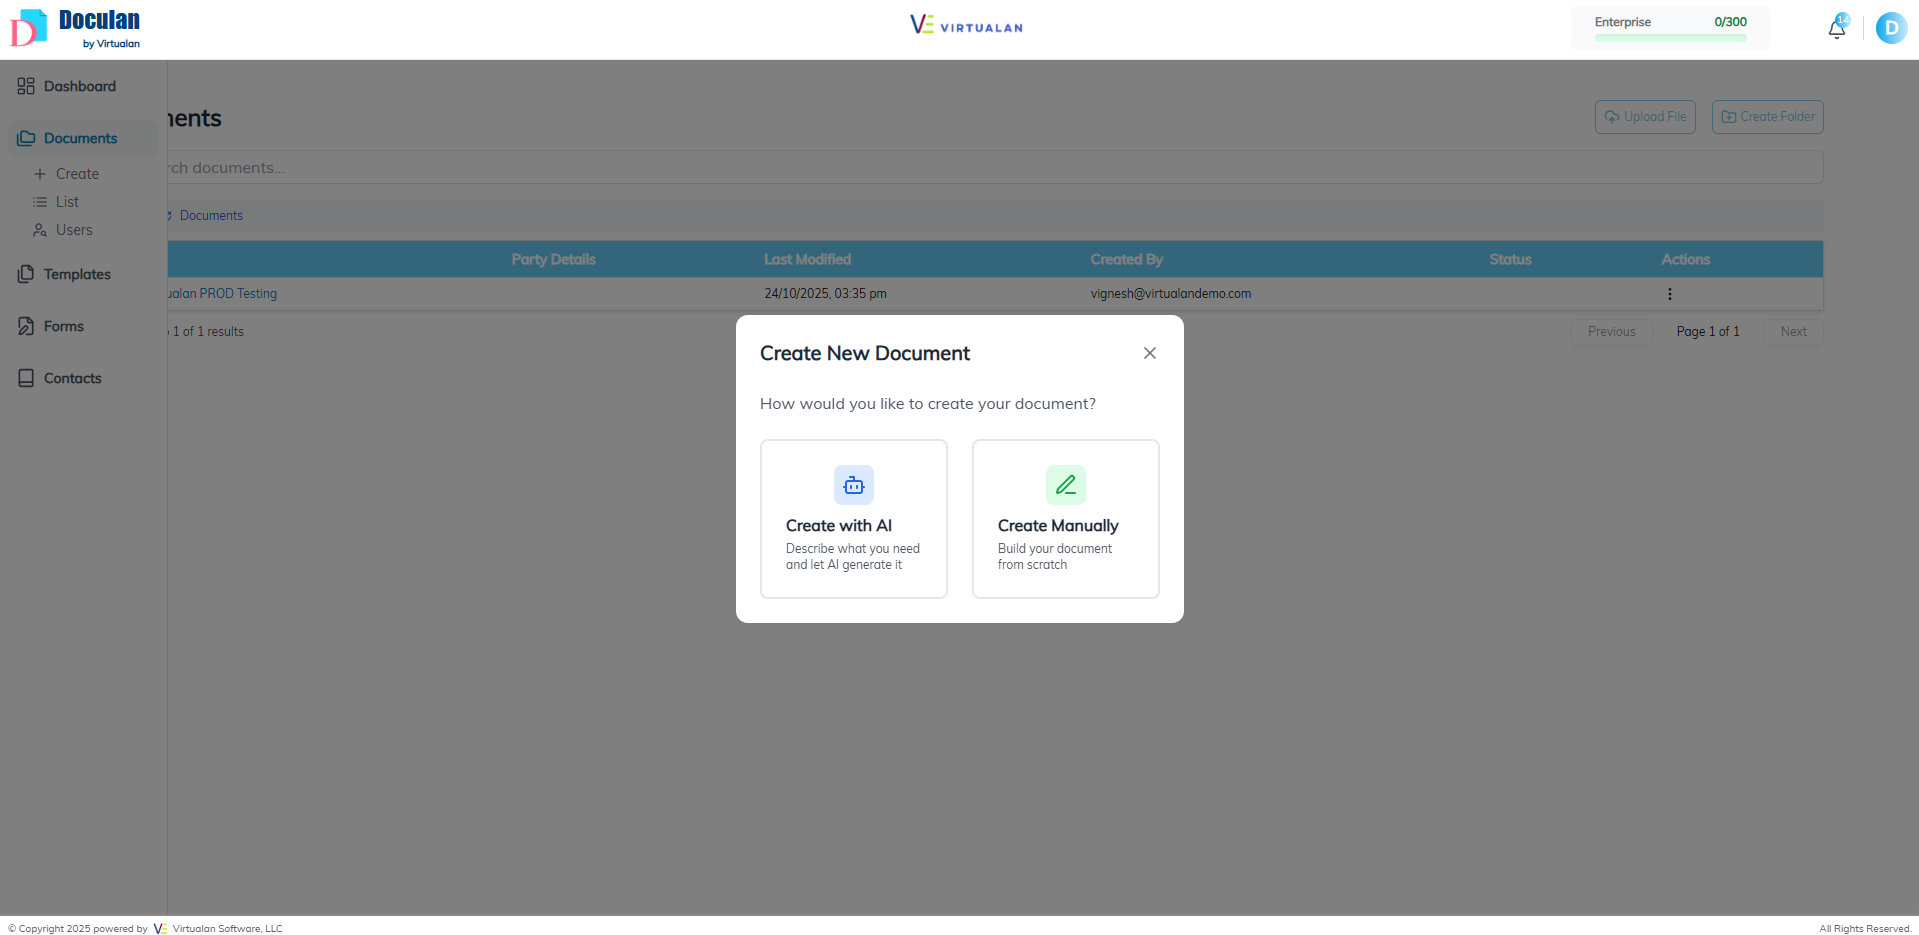
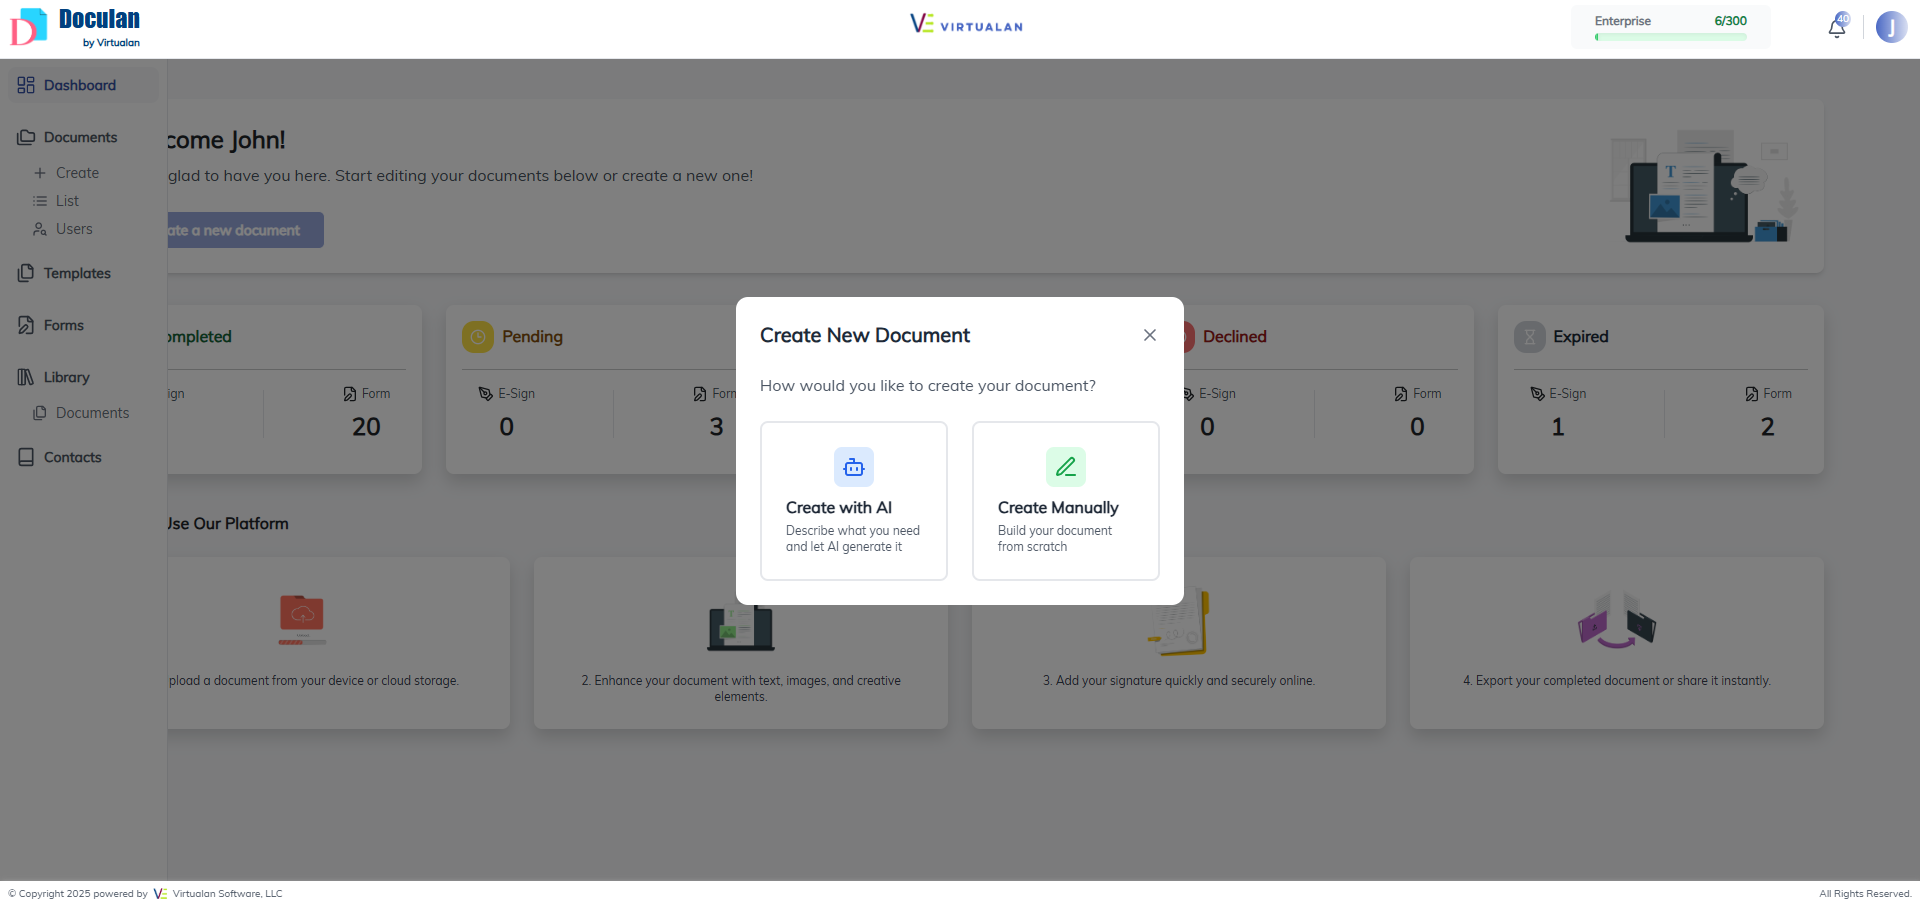
modifed-newlayer

diff --git a/docs/Forms/Form_Create.md b/docs/Forms/Form_Create.md
@@ -3,13 +3,18 @@
 This guide explains the complete process of **creating a form, sending it to users, capturing their submissions, and reviewing the collected data**. 
 Follow the step-by-step instructions to manage your form workflow efficiently.
 
+---
+
 ##   **Step 1: Navigate to Create the Form**
 
-- Go to the **Forms** page.
-- Upload a **logo** (optional).
-- Enter **Form Title** and **Form Description**.
-- Select the **folder path** to store submitted data.
-- Drag and drop required fields: 
+- Navigate to the **Doculan Dashboard**. Click **Forms** from the main menu. 
+
+- Click the **Create New Form** button to manually design a form, or select **Generate with AI** to automatically create a form using **AI**.
+
+- For manual form creation, click the **Create New Form** button to proceed.
+
+- We have to Upload a **logo** (optional). Enter **Form Title** and **Form Description**.
+- Select the **folder path** to store submitted data. Drag and drop required fields: 
 
 | Field Type        | Description |
 |------------------|-------------|
@@ -40,7 +45,7 @@ Follow the step-by-step instructions to manage your form workflow efficiently.
 - Click **Send Form**
 - Add **recipient name & email**
 - Set **validity date** & **reminders**
-- Drag & drop the **form link** into the email body
+- Drag & drop the **Form link** and **Fullname** into the email body
 - Click **Send**
 
 **Screenshot1:**
@@ -77,13 +82,15 @@ Follow the step-by-step instructions to manage your form workflow efficiently.
 ---> The above **Screenshots** represent that how to Complete **otp verification** and **fill the form** and download the responses in **PDF Format**
 
 #   **Step 4: Navigate to Review Submissions**
+To review and manage form submissions in Doculan, follow the steps below:
 
 - Form status changes to **Completed**
-- Navigate: **Dashboard → Forms**
-- View actions under **Actions menu**:
-  - **Audit** – view submission logs  
-  - **View** – check individual submission
-- **Download all submissions as CSV**
+- Navigate to the **Doculan Dashboard** and click **Forms.**
+- Locate the required form and click the **⋮ (three-dot) icon** under the **Actions** column. 
+- From the Actions menu, you can perform the following operations:
+  - **Audit** – View detailed submission logs and activity history.  
+  - **View** – Review individual form submissions.
+- Download all form submissions in **CSV format** for reporting or offline analysis.
 
 **Screenshot1:**
 

diff --git a/docs/Forms/Form_Clone.md b/docs/Forms/Form_Clone.md
@@ -2,13 +2,16 @@
 
 Cloning a form in Doculan lets you **instantly duplicate any existing form** and **reuse its structure without rebuilding it**. After cloning, you can review the details, add recipients, and send it just like a new form. This feature makes repeating form workflows faster and more efficient.
 
+---
+
 ##  **Step1: Navigate to Clone the Form**
 
-- Go to **Dashboard → Forms**
-- Click **Action → Clone**
+- Navigate to the **Doculan Dashboard** and click **Forms.**
+- Locate the **required form** and click the **⋮ (three-dot) icon** under the Actions column.
+- Click **Clone** and form will be cloned  
 - Review & click **Send Form**
-- Add recipients again and send
-- All the steps are same as like Create and Send Form, As we already seen in [How to Create and Send Forms ](Form_Create.md)
+- Add **recipients again and send**
+- All the steps are same as like Create and Send Form, As we already seen in [How to Create and Send Forms?](Forms/Form_Create.md)
 
 >  Forms can be cloned even if they are **Completed, Cancelled, Resent, or Expired**
 
@@ -22,10 +25,12 @@ Cloning a form in Doculan lets you **instantly duplicate any existing form** and
 
 # **Step 2: Audit Trail**
 
-- Click **Audit Button** 
-- Check the timesheet from the audit trail.
+- Navigate to the **Doculan Dashboard and click Forms.**
+- Locate the required **form** and click the **⋮ (three-dot) icon** under the **Actions column.**
+- From the Actions menu, you can perform the below operations:
+- **Audit** – View detailed submission logs and activity history.
 
 **Screenshot2:**                                                                                                                                                                                                                                                                    
-<img src="screenshots\Forms\CloneForm-Audit.png" alt="Step 2 — Clone the Form" style="border:2px solid black; border-radius:4px; width:100%; max-width:800px;">
+<img src="screenshots/Forms/CloneForm-Audit.png" alt="Step 2 — Clone the Form" style="border:2px solid black; border-radius:4px; width:100%; max-width:800px;">
 
 The above **Screenshot** represent that **Audit Workflow of Clone Form.** 

diff --git a/docs/Forms/Form_Document_Storage.md b/docs/Forms/Form_Document_Storage.md
@@ -2,14 +2,17 @@
 
 This guide explains **how to access single submissions, overall form responses, and specific recipient details**. You can quickly view, download, and manage all attachments stored securely in Doculan Storage.
 
+---
+
 ## **Step1: Navigate to view  Single Submitted Form with Attachment**
 
 
 - All forms and files are stored in the **Doculan Storage**
 - You can **view, download, and print** submissions(Forms) & attachments(pdf, word, etc...)
-- Go to **Dashboard → Forms**
-- Click **Action → Details**
-- We can see the Submitted Form with their Attachment  
+- Navigate to the **Doculan Dashboard** and click **Forms.**
+- Locate the required form and click the **⋮ (three-dot) icon** under the **Actions column.**
+- We have to click **Details**, then
+- We can see the **Submitted Form with their Attachment.**  
 
 
 **Screenshot1:**
@@ -24,9 +27,10 @@ This guide explains **how to access single submissions, overall form responses, 
 
 ## **Step2: Navigate to view  Overall Submitted Form with Attachments**
 
-- Go to **Dashboard → Forms**
-- Click **Action → Details**
-- We can see the Submitted Forms with their Attachments  
+- Navigate to the **Doculan Dashboard** and **click Forms.**
+- Locate the required **Primary form** and click the **⋮ (three-dot) icon** under the Actions column.
+- We have to click **Details**, then
+- We can see the **Submitted Forms with their Attachments.**  
 
 **Screenshot1:**
 
@@ -40,8 +44,9 @@ This guide explains **how to access single submissions, overall form responses, 
 
 ## **Step3: Navigate to view Specific Recipient in Overall Submitted Forms with Attachments**
 
-- Go to **Dashboard → Forms**
-- In **Specific Recipient** Form, then Click **Action → Details** 
+- Navigate to the **Doculan Dashboard and click Forms.**
+- Locate the **Specific Recipient form** and click the **⋮ (three-dot) icon** under the **Actions column.**
+- We have to click **Details**, then
 - We can see the **Specific Recipient's Submitted Form with their Attachment** 
 
 **Screenshot1:**

diff --git a/docs/Forms/Form_Resend.md b/docs/Forms/Form_Resend.md
@@ -2,10 +2,13 @@
 
 This guide helps to **resending a form** allows you to issue a fresh access link to recipients, especially useful when the previous form has expired or not been completed. From the Forms dashboard, selcting resend to trigger a new notification email. You can also review the complete resend history through the Audit Trail for transparency and tracking. This ensures the form reaches recipients again without creating a new submission.
 
+---
+
 ##  **Step1: Navigate to Resend the Form**
 
-- Go to **Dashboard → Forms**
-- Click **Action → Resend**
+- Navigate to the **Doculan Dashboard** and click **Forms.**
+- Locate the **form** and click the **⋮ (three-dot) icon** under the Actions column.
+- Click **Resend**, then 
 - Recipient receives a new access email  
 > Useful for **expired forms**
 
@@ -18,8 +21,10 @@ This guide helps to **resending a form** allows you to issue a fresh access link
 
 # **Step 2: Audit Trail**
 
-- Click **Audit Button** 
-- Check the timesheet from the audit trail.
+- Navigate to the **Doculan Dashboard and click Forms.**
+- Locate the required **form** and click the **⋮ (three-dot) icon** under the **Actions column.**
+- From the Actions menu, you can perform the below operations:
+- **Audit** – We can check the timesheet from the audit trail.
 
 **Screenshot2:**
 

diff --git a/docs/Forms/Form_Cancel.md b/docs/Forms/Form_Cancel.md
@@ -2,12 +2,15 @@
 
 This guide helps to how to **cancel a form in Doculan** when it is **no longer needed**. Walks you through navigating to the form, initiating the cancellation, confirming the action, and reviewing the audit trail for tracking. It ensures you can safely stop a form workflow with full transparency.
 
+---
+
 
 ## **Step 1:  Navigate to Cancel the Form**
 
 - Status must be **Sent**
-- Go to **Dashboard → Forms**
-- Click **Action → Cancel**
+- Navigate to the **Doculan Dashboard** and click **Forms.**
+- Locate the **form** and click the **⋮ (three-dot) icon** under the Actions column.
+- Click **Cancel.**
 
 **Screenshot1:**
 
@@ -39,8 +42,10 @@ A confirmation popup appears with details.
 <!-- **Screenshot4:** -->
 # **Step 3: Audit Trail**
 
-- Click **Audit Button** 
-- Check the timesheet from the audit trail.
+- Navigate to the **Doculan Dashboard and click Forms.**
+- Locate the required **form** and click the **⋮ (three-dot) icon** under the **Actions column.**
+- From the Actions menu, you can perform the below operations:
+- **Audit** – We can check the timesheet from the audit trail.
 
 <img src="screenshots\Forms\Form-Cancel4.png" alt="Step 4 — Cancel the Form" style="border:2px solid black; border-radius:4px; width:100%; max-width:800px;">
 

diff --git a/docs/Contacts/Contact_Create.md b/docs/Contacts/Contact_Create.md
@@ -2,10 +2,13 @@
 
 This guide helps to **Creating a Contact in Doculan** allows you to store essential recipient information for quicker form assignment and communication. Simply navigate to the Contacts section and we have to add contact, and enter the required details such as name, email, and phone number. Once saved, the contact becomes instantly available for use across forms and workflows. This ensures efficient management of your recipient directory.
 
+---
+
+
 
 #  Steps to Create Contact
 
-1. Open the **Doculan Dashboard** and go to the **Contacts** section.
+1. Navigate to **Doculan Dashboard** and then Click **Contacts** section.
 2. Click on **Add Contact**.
 3. Fill in all required details such as:
    - Full Name  
@@ -13,7 +16,7 @@ This guide helps to **Creating a Contact in Doculan** allows you to store essent
    - Mobile Number  
    - Other optional fields  
 4. Click **Add Contact** to save.
-5. The contact will be successfully created and stored in the system.
+5. The contact will be **successfully created and stored in the Doculan Storage.**
 
 **Screenshot1:**
 

diff --git a/docs/Forms/Form-Delete.md b/docs/Forms/Form-Delete.md
@@ -2,13 +2,16 @@
 
 This guide helps to **deleting a form in Doculan** is possible only when it has **no linked recipients or submissions**. Navigate to the Forms section, open the action menu, and choose Delete to remove the form permanently. A confirmation popup will appear, allowing you to verify the action before final deletion. This ensures that only unused or draft forms are safely removed from the system.
 
+---
 
 ##  **Step:1 Navigate to Delete the Form**
 
 - Forms can be deleted **only if no recipients are linked**
 > Forms with recipients or submissions **cannot be deleted**
-- Go to **Dashboard → Forms**
-- Click **Action → Delete**
+- Navigate to the **Doculan Dashboard** and click **Forms.**
+- Locate the **form** and click the **⋮ (three-dot) icon** under the Actions column.
+- Click **Delete.**
+
 
 **Screenshot1:**
 

diff --git a/docs/Contacts/Contact-Update.md b/docs/Contacts/Contact-Update.md
@@ -2,9 +2,11 @@
 
 This guide helps to  **Update a contact in Doculan** allows you to keep recipient information accurate and up to date. From the Contacts page, select the edit option, modify the required details, and save the changes. The updated information is instantly reflected across all workflows where the contact is used. This ensures smooth communication and prevents errors caused by outdated data.
 
+---
+
 #  Steps to Update Contact
 
-1. Go to the **Contacts** page to view existing contacts.
+1. Navigate to **Contacts** page to view existing contacts.
 2. Click the **Edit (pen icon)** next to the contact you want to modify.
 3. Update the contact details (Name, Email, Phone Number, etc.).
 4. Click **Save Changes**.

diff --git a/docs/Contacts/Contact-Delete.md b/docs/Contacts/Contact-Delete.md
@@ -2,9 +2,12 @@
 
 This guide helps to **Delete a Contact in Doculan** helps you maintain a clean and accurate directory by removing unused or outdated entries. From the Contacts page, select the delete option next to the desired contact and confirm the action in the popup. Once confirmed, the contact is permanently removed from the system. This ensures your contact list stays organized and relevant.
 
+---
+
+
 #  Steps to Delete Contact
 
-1. Open the **Contacts** page to view all contacts.
+1. Navigate to **Contacts** page to view all contacts.
 2. Click the **Delete (trash icon)** next to the contact you want to remove.
 3. Confirm by clicking **Delete**.
 4. The contact will be deleted successfully.

diff --git a/docs/Security/Security.md b/docs/Security/Security.md
@@ -1,6 +1,8 @@
 # Two-Factor Authentication (2FA)
 Two-Factor Authentication (2FA) is a security mechanism that enhances account protection by requiring users to verify their identity through two independent authentication factors. In addition to a standard password, users must provide a second form of verification—such as a one-time passcode, authenticator app token, or hardware security key. This dual-layer validation significantly reduces unauthorized access risks and strengthens overall system security.
 
+---
+
 ## Steps to Enable Two-Factor Authentication (2FA)
 Follow the steps below to securely enable **Two-Factor Authentication (2FA)** in **Doculan.**
 

diff --git a/docs/Document/Documents_Create.md b/docs/Document/Documents_Create.md
@@ -2,6 +2,9 @@
 
 This guide helps to **Create a document in Doculan** allows you to build professional, customizable files either manually or with AI assistance. You can edit text, apply formatting, adjust styles, and insert images or additional pages to structure your document effectively. Built-in spell check ensures accuracy before saving your work. Once completed, the document can be saved and exported in PDF format for secure use and sharing.
 
+---
+
+
 #  Steps to Create a New Document
 
 1. Go to **Doculan Dashboard → Documents → Create**

diff --git a/docs/Document/Documents_Upload.md b/docs/Document/Documents_Upload.md
@@ -2,6 +2,9 @@
 
 This guide helps to **Upload a document to Doculan** allows you to securely store and manage files within the platform. Simply choose the appropriate storage path, select your PDF file, and upload it to the designated folder. This ensures your documents are centrally organized and easily accessible for future workflows. The process supports efficient document management and seamless retrieval.
 
+---
+
+
 #  Steps to Upload to Doculan Storage
 
 - Documents can be saved **locally** or in **Doculan Storage**
